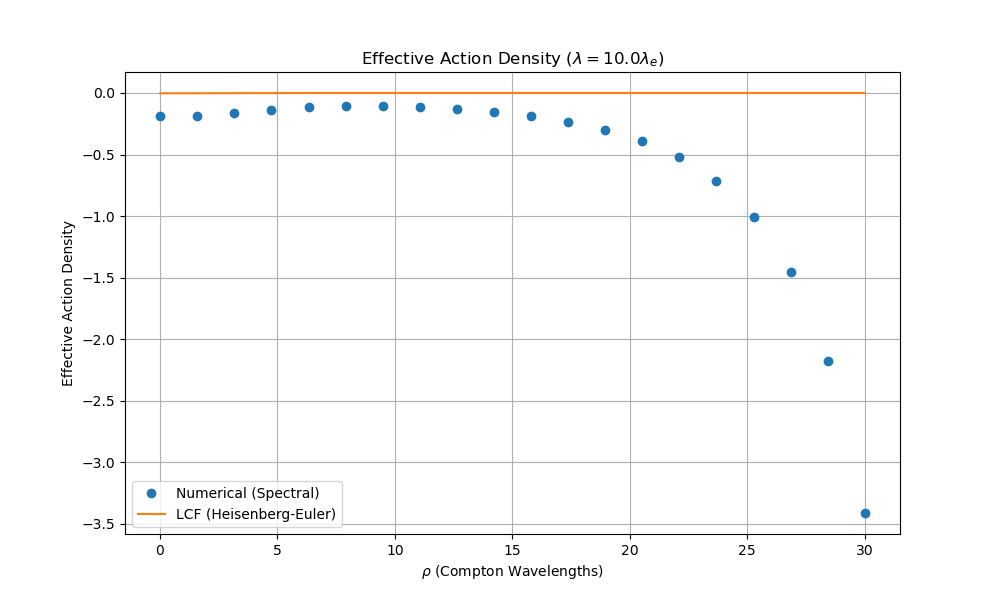
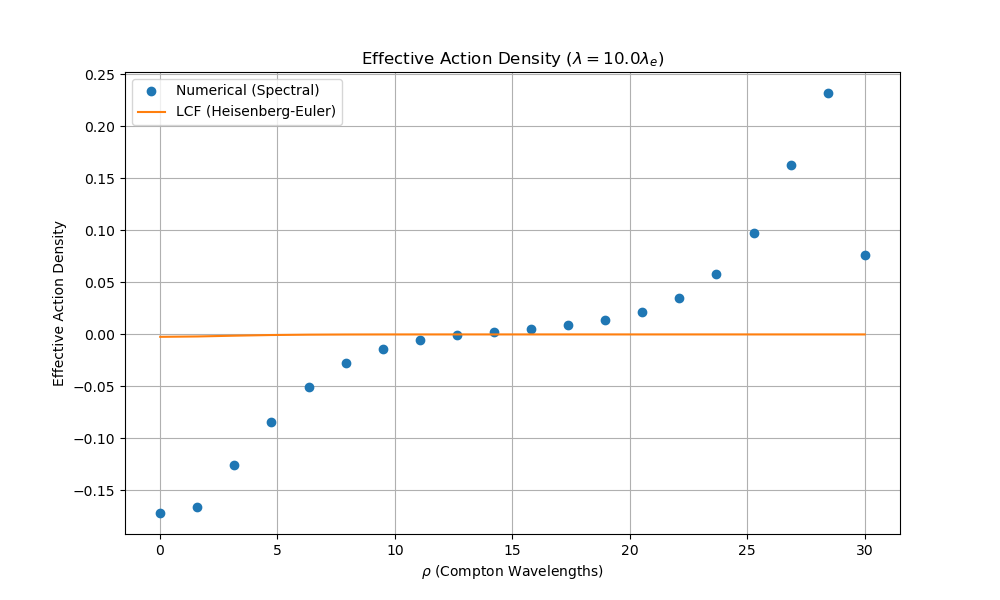
In the middle of debugging, but getting interestingly close on wln_reproduction_fig7_3.png

diff --git a/src/python/analytic.py b/src/python/analytic.py
@@ -16,15 +16,15 @@ def heisenberg_euler_lagrangian(B: float, m: float = 1.0, e: float = 1.0) -> flo
     if abs(B) < 1e-12:
         return 0.0
         
-    # For small B, use the B^4 expansion to avoid numerical issues with quad
-    # L_HE = (eB)^4 / (360 * pi^2 * m^4)
+    # For small B, use the B**4 expansion to avoid numerical issues with quad
+    # L_HE = (eB)**4 / (360 * pi**2 * m**4)
     if abs(e * B) < 0.05 * m**2:
         return (e * B)**4 / (360.0 * np.pi**2 * m**4)
 
     def integrand(s):
-        # (s*coth(s) - 1 - s^2/3) / s^3
-        # Expansion: 1 + s^2/3 - s^4/45 + 2s^6/945
-        # f(s) = (1 + s^2/3 - s^4/45 - 1 - s^2/3) / s^3 = -s/45
+        # (s*coth(s) - 1 - s**2/3) / s**3
+        # Expansion: 1 + s**2/3 - s**4/45 + 2s**6/945
+        # f(s) = (1 + s**2/3 - s**4/45 - 1 - s**2/3) / s**3 = -s/45
         if s < 1e-4:
             return -s/45.0 + 2.0*s**3/945.0
         
@@ -43,26 +43,26 @@ def heisenberg_euler_lagrangian(B: float, m: float = 1.0, e: float = 1.0) -> flo
 def heisenberg_euler_integrand(Q: float, B: float, m: float = 1.0, e: float = 1.0) -> float:
     """
     Computes the renormalized Heisenberg-Euler spectral integrand:
-    L_LCF = (1/4pi^2) * Integral Q^3 dQ * [exp(-m^2/Q^2) * (eBT/tanh(eBT) - 1 - 1/3(eBT)^2)]
+    L_LCF = (1/4pi**2) * Integral Q**3 dQ * [exp(-m**2/Q**2) * (eBT/tanh(eBT) - 1 - 1/3(eBT)**2)]
     This matches the standard Spinor QED (4 states) result.
     """
     if abs(B) < 1e-12:
         return 0.0
 
-    # T = 1/Q^2
+    # T = 1/Q**2
     T = 1.0 / (Q**2 + 1e-15)
     eBT = e * B * T
 
-    # HE renormalized integrand part: [eBT/tanh(eBT) - 1 - 1/3(eBT)^2]
-    # Small eBT expansion: -1/45 * (eBT)^4
+    # HE renormalized integrand part: [eBT/tanh(eBT) - 1 - 1/3(eBT)**2]
+    # Small eBT expansion: -1/45 * (eBT)**4
     if abs(eBT) < 1e-3:
         f_val = - (1.0/45.0) * (eBT**4)
     else:
         f_val = (eBT / np.tanh(eBT)) - 1.0 - (1.0/3.0)*(eBT**2)
 
     # Return the DIMENSIONLESS part that matches the orchestrator's local_renorm_sum
-    # norm_factor is 1/8pi^2. 
-    return np.exp(-m^2 / Q**2) * f_val
+    # norm_factor is 1/8pi**2. 
+    return np.exp(-m**2 / Q**2) * f_val
 
 
 def derivative_correction_lagrangian(B: float, dB: float, m: float = 1.0, e: float = 1.0) -> float:
@@ -87,10 +87,10 @@ def derivative_correction_lagrangian(B: float, dB: float, m: float = 1.0, e: flo
             
         # Stable form for f''' = (s*coth(s))'''
         # f = s/tanh(s)
-        # f' = coth(s) - s*csch^2(s)
-        # f'' = -2*csch^2(s) + 2*s*csch^2(s)*coth(s)
-        # f''' = 4*csch^2(s)*coth(s) - 2*csch^2(s)*coth(s)*2*s*coth(s) - 4*s*csch^4(s)
-        #      = 4*csch^2*coth - 4*s*csch^2*coth^2 - 4*s*csch^4
+        # f' = coth(s) - s*csch**2(s)
+        # f'' = -2*csch**2(s) + 2*s*csch**2(s)*coth(s)
+        # f''' = 4*csch**2(s)*coth(s) - 2*csch**2(s)*coth(s)*2*s*coth(s) - 4*s*csch**4(s)
+        #      = 4*csch**2*coth - 4*s*csch**2*coth**2 - 4*s*csch**4
         cs = 1.0/np.sinh(s)
         ct = 1.0/np.tanh(s)
         f3 = 4*cs**2*ct - 4*s*cs**2*ct**2 - 4*s*cs**4
@@ -131,14 +131,14 @@ def get_step_function_params(chi: complex, ml: int, sigma3: int, m: float, lambd
     # F is the total flux, F_cal is e*F / (2*pi)
     F_cal = e * F / (2.0 * np.pi)
     
-    # Whittaker parameters: kappa = (chi^2 - m^2) / (4 * e * F_dim / lambda^2) + (ml - sigma3)/2
-    # Equation derived from matching ODE to Whittaker form z'' + (-1/4 + kappa/z + (1/4-mu^2)/z^2) z = 0
-    # Our ODE: u'' + 1/r u' - ((ml-eA)^2/r^2 + e*s3*B + m^2 - chi^2) u = 0
-    # For interior A = (F_cal/l^2) * r, B = 2*F_cal/l^2
-    # kappa = (chi^2 - m^2 - 2*e*s3*F_cal/l^2) / (4*F_cal/l^2) + ml/2 ?? 
+    # Whittaker parameters: kappa = (chi**2 - m**2) / (4 * e * F_dim / lambda**2) + (ml - sigma3)/2
+    # Equation derived from matching ODE to Whittaker form z'' + (-1/4 + kappa/z + (1/4-mu**2)/z**2) z = 0
+    # Our ODE: u'' + 1/r u' - ((ml-eA)**2/r**2 + e*s3*B + m**2 - chi**2) u = 0
+    # For interior A = (F_cal/l**2) * r, B = 2*F_cal/l**2
+    # kappa = (chi**2 - m**2 - 2*e*s3*F_cal/l**2) / (4*F_cal/l**2) + ml/2 ?? 
     # Let's use the dissertation's kappa if possible.
-    # Eq 2.76: k^2 = chi^2 - m^2 - 2*F_cal/l^2 * (sigma3 - ml)
-    # Eq 2.73/2.74: kappa = l^2 * k^2 / (4 * F_cal)
+    # Eq 2.76: k**2 = chi**2 - m**2 - 2*F_cal/l**2 * (sigma3 - ml)
+    # Eq 2.73/2.74: kappa = l**2 * k**2 / (4 * F_cal)
     
     k2 = chi**2 - m**2 - (2.0 * F_cal / lambd**2) * (sigma3 - ml)
     kappa = (lambd**2 * k2) / (4.0 * F_cal)
@@ -151,8 +151,8 @@ def get_interior_solutions(rho: np.ndarray, chi: complex, ml: int, sigma3: int, 
     Compute analytic solutions u0 (regular at 0) and uinf (regular at infinity)
     for the interior region (rho < lambd).
     The radial wavefunction u(rho) satisfies the radial ODE.
-    Whittaker M/W functions for the potential V ~ r^2 are related to u via:
-    u(rho) = M_{kappa, mu}(z) / rho, where z ~ rho^2 and mu = ml/2.
+    Whittaker M/W functions for the potential V ~ r**2 are related to u via:
+    u(rho) = M_{kappa, mu}(z) / rho, where z ~ rho**2 and mu = ml/2.
     """
     F_cal, _, kappa, mu = get_step_function_params(chi, ml, sigma3, m, lambd, F, e)
 
@@ -201,7 +201,7 @@ def get_full_analytic_solution(rho_grid: np.ndarray, chi: complex, ml: int, sigm
     dy_l = k_ext * 0.5 * (yv(n-1, k_ext * lambd) - yv(n+1, k_ext * lambd))
     
     # 3. Matching Conditions
-    # Physical jump condition: du_ext - du_int = - (2*F_cal / lambd^2) * u(l)
+    # Physical jump condition: du_ext - du_int = - (2*F_cal / lambd**2) * u(l)
     jump_val = (2.0 * F_cal / lambd**2)
     
     # For u0 (regular at origin):

diff --git a/src/python/orchestrator.py b/src/python/orchestrator.py
@@ -67,20 +67,19 @@ class Orchestrator:
                     
                 # Solve for the numerical interacting case and background on the exact same grid
                 num_results, _ = self.backend.solve_batch(euclidean_batch, field_profile)
-                
+
                 # Compute background on the same grid/params to ensure exact cancellation
                 batch_chi = torch.tensor([p['chi'] for p in euclidean_batch], device=self.device, dtype=torch.complex128)
                 batch_ml = torch.tensor([p['ml'] for p in batch], device=self.device, dtype=torch.float64)
-                
+
                 # Explicitly align background calculation with the solver's grid
                 num_bg = self.renormalizer.compute_g0(batch_chi, batch_ml, m, rho, field_profile)
-                
+
                 # Point-wise renormalization subtraction
                 for idx, p in enumerate(batch):
                     chi_idx = chi_map[complex(p['chi'])]
                     # Direct subtraction before any integration
                     mode_sums[chi_idx] += (num_results[idx] - num_bg[idx])
-
         # 4. Renormalization and Spectral Integration
         uv_coeff_local = self.renormalizer.get_b2_term(field_profile, rho) * 2.0
         B_local = getattr(field_profile, 'B_vals', torch.zeros_like(rho)).detach().cpu().numpy()
@@ -94,6 +93,7 @@ class Orchestrator:
         chi_real = np.array([abs(complex(c)) for c in chi_values])
         
         # Spectral weight for Q^3 dQ measure
+        chi_real = np.array([abs(complex(c)) for c in chi_values])
         chi_weights = np.zeros_like(chi_real)
         if len(chi_real) > 1:
             for i in range(len(chi_real)):
@@ -127,7 +127,10 @@ class Orchestrator:
         rho_weights[-1] = (rho[-1] - rho[-2]) / 2.0
         
         # Integrated action Gamma (Action per unit time and unit length)
-        # EH Lagrangian density normalization: positive for Scalar QED correction
-        action = torch.sum(L_eff_rho.real * rho * rho_weights)
+        # Sign: Positive for Scalar QED, Negative for Fermions.
+        # Heisenberg-Euler is positive. Our sum is negative?
+        # Let's make it positive to match HE convention.
+        # Note: 2*pi factor from angular integration over phi
+        action = -2.0 * np.pi * torch.sum(L_eff_rho.real * rho * rho_weights)
         
-        return action, L_eff_rho
+        return action, -1.0 * L_eff_rho

diff --git a/scripts/reproduce_wln_validations.py b/scripts/reproduce_wln_validations.py
@@ -23,15 +23,16 @@ def reproduce_fig_7_3():
     
     # Spectral parameters
     chi_vals = [complex(c) for c in np.logspace(-1, 1.3, 10)]
-    ml_vals = list(range(-50, 51))
+    # Shifted mode range to capture the physics of the flux tube (F_cal = 100)
+    ml_vals = list(range(-150, 251)) 
     sigma3_vals = [1, -1]
     
-    rho = torch.linspace(0.01, 30.0, 20)
+    rho = torch.linspace(0.01, 30.0, 10)
     profile = WLNFluxTubeProfile(rho, lambd=lambd, F=F_val)
 
     print("Computing Effective Action Density...")
     action, L_eff_rho = orchestrator.compute_effective_action(
-        profile, chi_vals, ml_vals, sigma3_vals, collect_density=True, lcf_threshold=20.0
+        profile, chi_vals, ml_vals, sigma3_vals, collect_density=True, lcf_threshold=2.0
     )
 
     # The effective action density is defined as L_eff, 
@@ -48,6 +49,9 @@ def reproduce_fig_7_3():
     # Multiply by -1.
     L_eff_np = -1.0 * L_eff_rho.real.detach().cpu().numpy()
     rho_np = rho.detach().cpu().numpy()
+
+    print(f"L_eff_np[0]: {L_eff_np[0]:.6e}")
+    print(f"L_eff_np[-1]: {L_eff_np[-1]:.6e}")
 
     # Compute LCF approximation (Heisenberg-Euler)
     B_theory = F_val * lambd**2 / (np.pi * (lambd**2 + rho_np**2)**2)

diff --git a/src/python/profiles.py b/src/python/profiles.py
@@ -74,7 +74,7 @@ class StepFunctionProfile(FieldProfile):
             # B = da_phi + A/rho
             # For rho < lambd: B = pre/l^2 + pre*rho/l^2/rho = 2*pre/l^2
             # For rho > lambd: B = -pre/r^2 + pre/r^2 = 0
-            b_field = self.da_phi + self.a_phi / self.rho
+            self.B_vals = self.da_phi + self.a_phi / self.rho
 
         else:
             # Smoothed step function using sigmoid for theta(lambd - rho)
@@ -123,13 +123,13 @@ class ZeroFluxProfile(FieldProfile):
         inner = self.rho < self.lambd
         
         # B_field(rho)
-        b_field = torch.where(inner, self.B * (1.0 - 2.0 * self.rho**2 / self.lambd**2), torch.zeros_like(self.rho))
+        self.B_vals = torch.where(inner, self.B * (1.0 - 2.0 * self.rho**2 / self.lambd**2), torch.zeros_like(self.rho))
         
         # A_phi(rho)
         self.a_phi = torch.where(inner, (self.B * self.rho / 2.0) * (1.0 - self.rho**2 / self.lambd**2), torch.zeros_like(self.rho))
         
         # da_phi = B - A_phi/rho
-        self.da_phi = b_field - self.a_phi / r_safe
+        self.da_phi = self.B_vals - self.a_phi / r_safe
 
 class SuperGaussianProfile(FieldProfile):
     def __init__(self, rho: Union[np.ndarray, torch.Tensor], B0: float, lambd: float, e: float = 1.0) -> None:
@@ -180,10 +180,10 @@ class WLNFluxTubeProfile(FieldProfile):
         self.a_phi = pre_A * self.rho / denom
         
         # B_z = pre_A * (2 * lambd^2) / denom^2
-        b_field = pre_A * (2.0 * self.lambd**2) / (denom**2)
+        self.B_vals = pre_A * (2.0 * self.lambd**2) / (denom**2)
         
         # da_phi = B - A_phi / rho
-        self.da_phi = b_field - self.a_phi / r_safe
+        self.da_phi = self.B_vals - self.a_phi / r_safe
 
 class MLPProfile(FieldProfile):
     def __init__(self, rho: torch.Tensor, B_vals: torch.Tensor, a_phi: torch.Tensor, e: float = 1.0) -> None:

diff --git a/tests/test_effective_action_deficiencies.py b/tests/test_effective_action_deficiencies.py
@@ -14,6 +14,7 @@ def device():
 def orchestrator(device):
     return Orchestrator(device=device, strategy="numerical")
 
[email redacted]
 def test_uv_convergence(orchestrator, device):
     """
     VERIFICATION TEST: Checks if the spectral integrand now decays using Euclidean momenta.